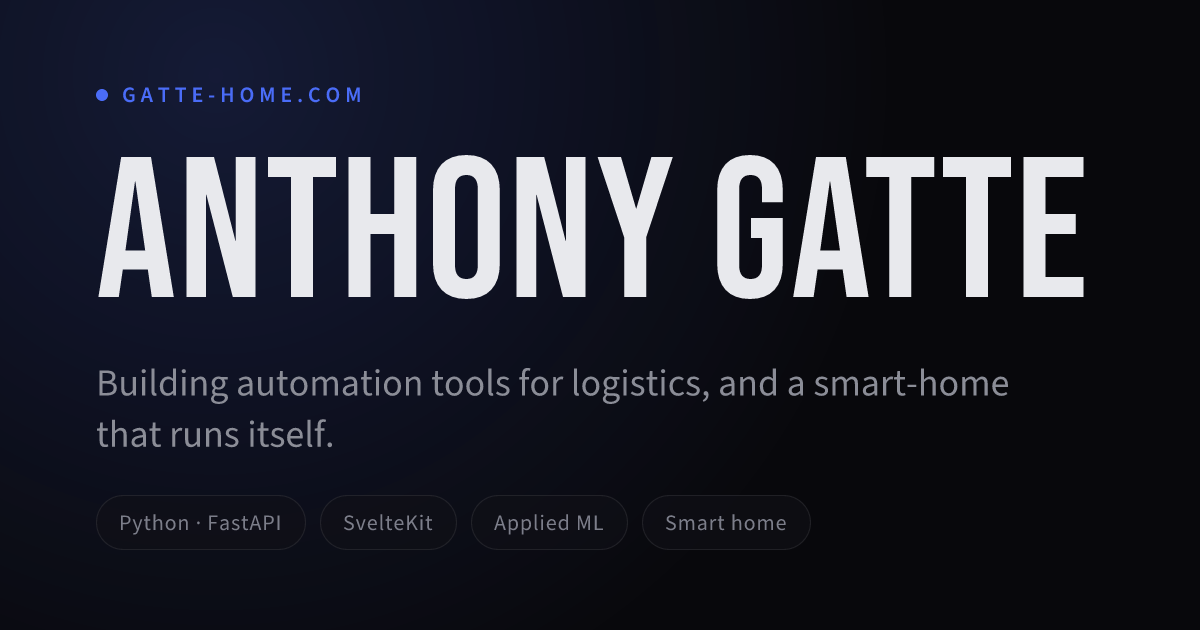
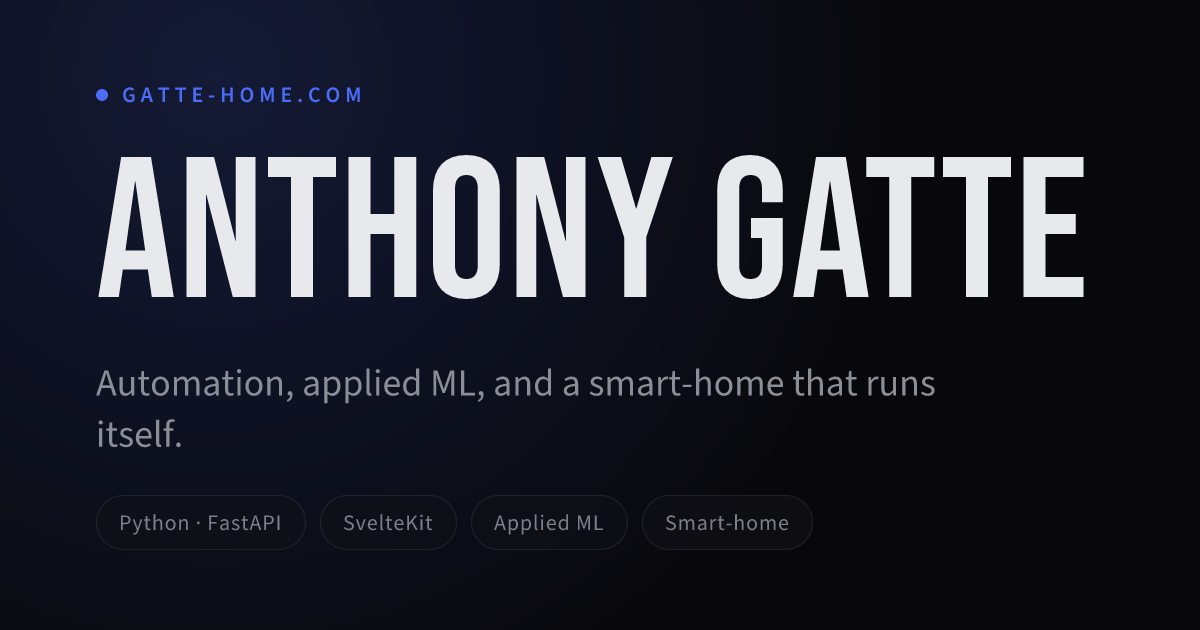
copy: drop TQL/logistics framing from About + hero + footer + OG
- Hero lede: focus on the systems work instead of day-job framing
- About: lead with the build practice, keep Home Hub as the marquee
- Footer role: 'Automation · applied ML · smart-home'
- OG tagline: matches new hero copy
- Regenerated static/og-image.png

Changed region(s): [[0.0617, 0.573, 0.8325, 0.6333], [0.0617, 0.6635, 0.2775, 0.7238], [0.5858, 0.8143, 0.6783, 0.8444]]

diff --git a/src/routes/+page.svelte b/src/routes/+page.svelte
@@ -21,8 +21,8 @@
     <div class="eyebrow">Portfolio · 2026</div>
     <h1>Anthony Gatte</h1>
     <p class="lede">
-      Building automation tools for logistics by day, and a smart-home that runs itself by night.
-      I like systems that quietly do the right thing without being asked.
+      I build systems that quietly do the right thing without being asked.
+      Automation, applied ML, and a smart-home that runs itself.
     </p>
     <div class="cta-row">
       <a href="/home-hub" class="btn primary">Read the Home Hub case study →</a>
@@ -36,10 +36,9 @@
     <div class="eyebrow">About</div>
     <h2>Practical systems, end to end.</h2>
     <p>
-      I'm a Logistics Account Executive at <strong>TQL</strong> — the day job is pricing freight and managing
-      relationships. The side practice is automation: prospecting tools, data pipelines, and a year-long buildout
-      of an apartment-scale command center that listens to my voice, watches the room with a camera, and chooses
-      what the lights and music should do next.
+      I build automation tools, ship them to production, and keep them running. The current focus is the
+      <strong>Home Hub</strong> — a year-long buildout of an apartment-scale command center that listens
+      to my voice, watches the room with a camera, and chooses what the lights and music should do next.
     </p>
     <p>
       Stack-wise I live in Python and SvelteKit, ship to FastAPI and SQLite, and lean on classical ML

diff --git a/src/routes/+layout.svelte b/src/routes/+layout.svelte
@@ -23,7 +23,7 @@
     <div class="footer-inner">
       <div class="footer-brand">
         <div class="name">Anthony Gatte</div>
-        <div class="role">Logistics × automation × applied ML</div>
+        <div class="role">Automation · applied ML · smart-home</div>
       </div>
       <div class="footer-links">
         <a href="https://github.com/agatte" target="_blank" rel="noopener">GitHub</a>
